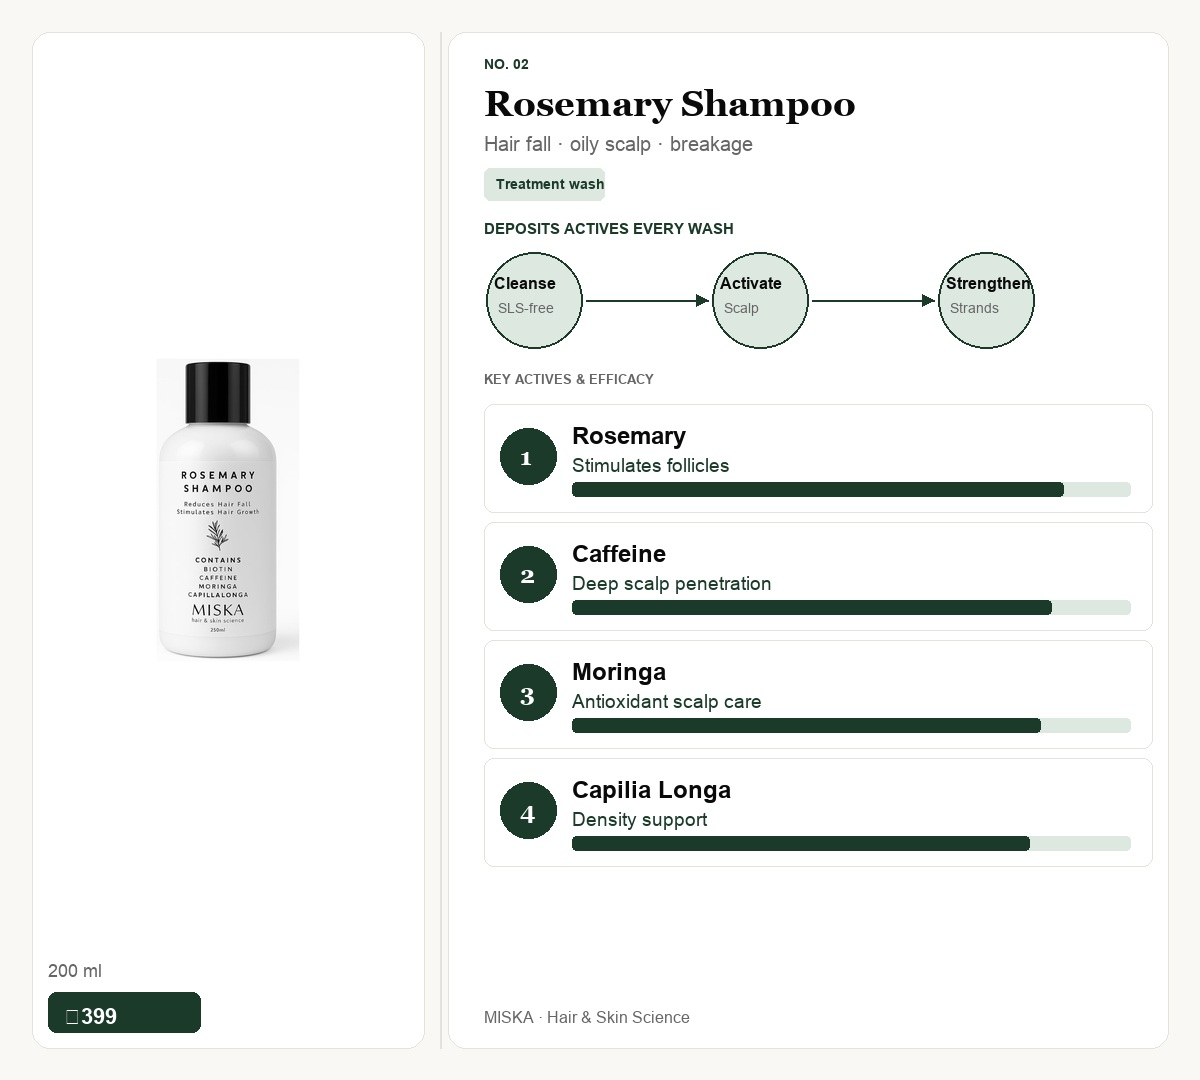
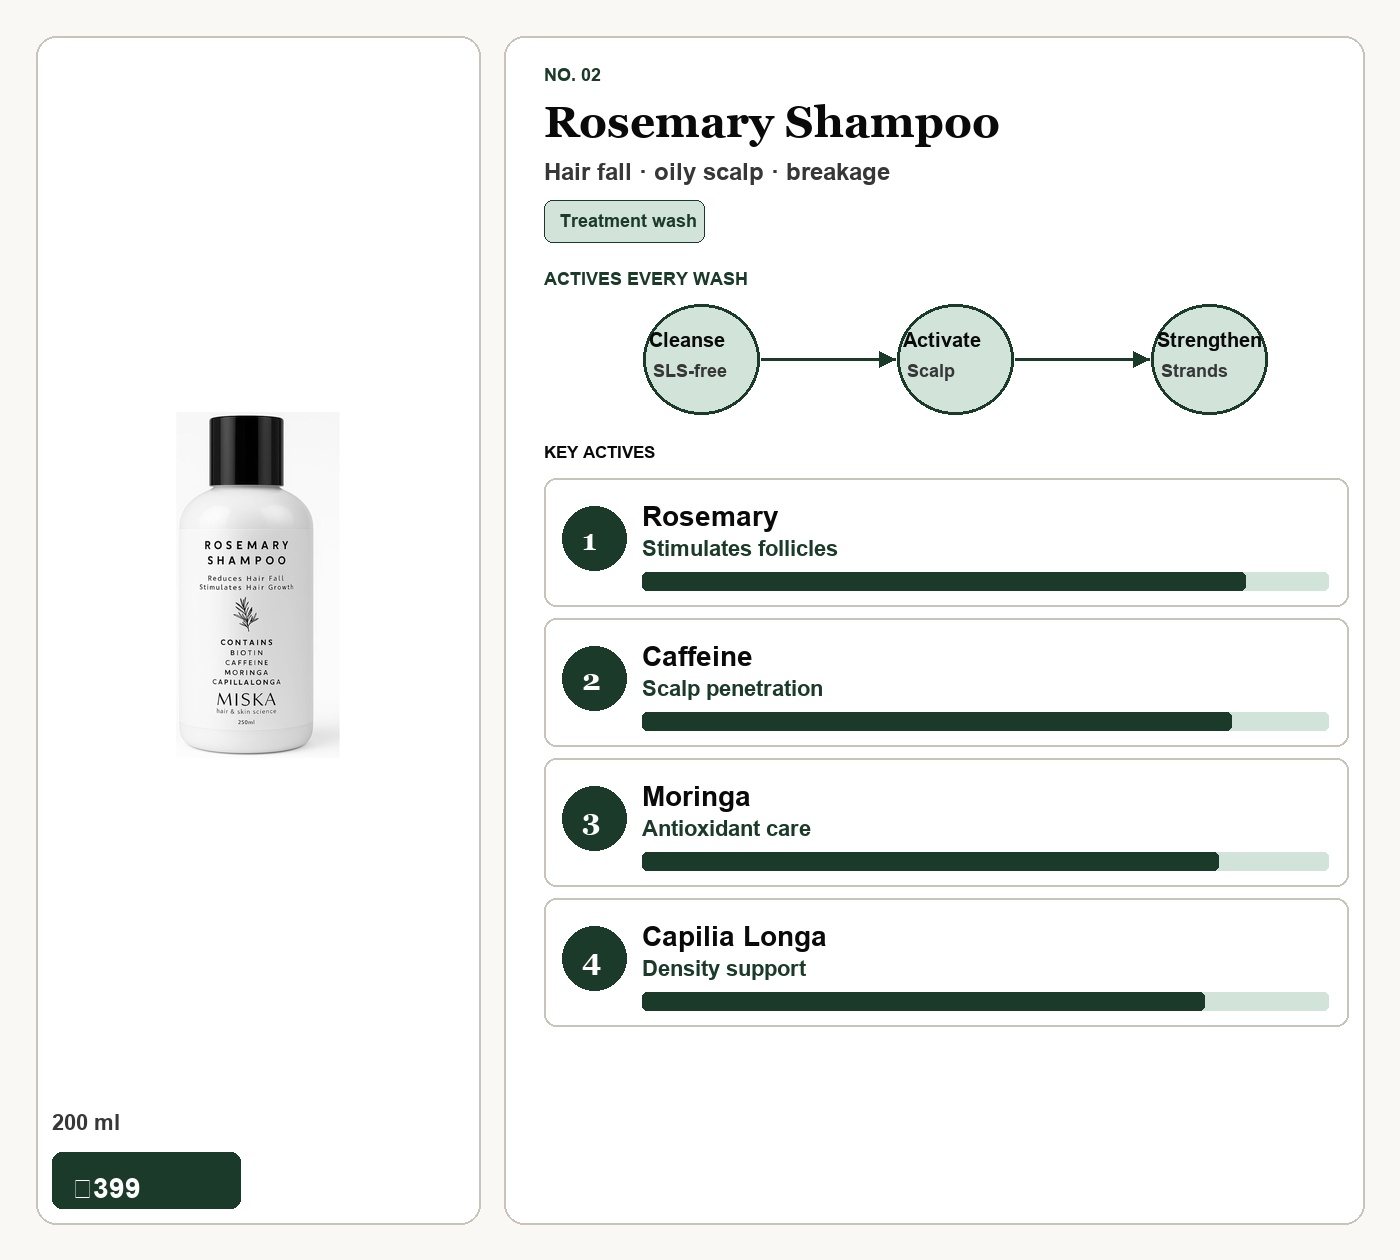
Sharpen hero infographic text and add per-slide Shop now links.
Larger high-contrast slides; each carousel frame links to its product details page.

diff --git a/components/HeroImageRotator.tsx b/components/HeroImageRotator.tsx
@@ -1,15 +1,15 @@
 "use client";
 
 import { useCallback, useEffect, useState } from "react";
+import Link from "next/link";
 import ProductImage from "@/components/ProductImage";
 import { imageUrl } from "@/lib/images";
+import type { HeroSlide } from "@/data/hero-images";
 
 const INTERVAL_MS = 4500;
 
-type Slide = { src: string; alt: string };
-
 type Props = {
-  images: readonly Slide[];
+  images: HeroSlide[];
 };
 
 export default function HeroImageRotator({ images }: Props) {
@@ -29,20 +29,22 @@ export default function HeroImageRotator({ images }: Props) {
 
   if (!images.length) return null;
 
+  const current = images[index];
+
   return (
     <div
       className="w-full min-w-0"
       onMouseEnter={() => setPaused(true)}
       onMouseLeave={() => setPaused(false)}
       aria-roledescription="carousel"
-      aria-label="Hair science infographics"
+      aria-label="Product infographics"
     >
       <div className="relative w-full aspect-[10/9] min-h-[min(88vw,520px)] sm:min-h-[440px] lg:min-h-[min(50vw,560px)] overflow-hidden rounded-sm border border-[#E5E2DB] bg-[#F9F8F5] shadow-sm">
         {images.map((img, i) => (
           <div
             key={imageUrl(img.src)}
             className={`absolute inset-0 transition-opacity duration-500 ease-in-out ${
-              i === index ? "opacity-100 z-10" : "opacity-0 z-0"
+              i === index ? "opacity-100 z-10" : "opacity-0 z-0 pointer-events-none"
             }`}
             aria-hidden={i !== index}
           >
@@ -55,17 +57,24 @@ export default function HeroImageRotator({ images }: Props) {
             />
           </div>
         ))}
+
+        <Link
+          href={`/products/${current.slug}`}
+          className="absolute z-20 bottom-4 left-4 right-4 sm:left-auto sm:right-5 sm:bottom-5 sm:min-w-[200px] inline-flex items-center justify-center bg-[#1C3A2A] text-white px-6 py-3.5 text-[11px] tracking-[0.14em] uppercase font-semibold hover:bg-[#152d20] shadow-md transition-colors"
+        >
+          Shop now — {current.productName}
+        </Link>
       </div>
 
       {images.length > 1 && (
-        <div className="flex justify-center gap-2 mt-4" role="tablist" aria-label="Infographic slides">
+        <div className="flex justify-center gap-2 mt-4" role="tablist" aria-label="Product slides">
           {images.map((img, i) => (
             <button
               key={img.src}
               type="button"
               role="tab"
               aria-selected={i === index}
-              aria-label={img.alt}
+              aria-label={img.productName}
               onClick={() => setIndex(i)}
               className={`h-1.5 rounded-full transition-all ${
                 i === index ? "w-7 bg-[#1C3A2A]" : "w-1.5 bg-[#D4D0C8] hover:bg-[#B8B4AC]"

diff --git a/data/hero-images.ts b/data/hero-images.ts
@@ -1,15 +1,28 @@
 /** One slide per product: bottle + actives infographic */
-export const heroImages = [
+export type HeroSlide = {
+  src: string;
+  alt: string;
+  slug: string;
+  productName: string;
+};
+
+export const heroImages: HeroSlide[] = [
   {
     src: "/marketing/hero/hero-rosemary-hair-oil.jpg",
     alt: "Rosemary Hair Oil with follicle actives infographic",
+    slug: "rosemary-hair-oil",
+    productName: "Rosemary Hair Oil",
   },
   {
     src: "/marketing/hero/hero-rosemary-shampoo.jpg",
     alt: "Rosemary Shampoo with treatment wash actives infographic",
+    slug: "rosemary-shampoo",
+    productName: "Rosemary Shampoo",
   },
   {
     src: "/marketing/hero/hero-hair-scalp-serum.jpg",
     alt: "Hairfall Control Serum with peptide efficacy infographic",
+    slug: "hair-scalp-serum",
+    productName: "Hairfall Control Serum",
   },
-] as const;
+];

diff --git a/lib/images.ts b/lib/images.ts
@@ -1,5 +1,5 @@
 /** Bump when product images are replaced to bust Next.js / browser cache */
-export const IMAGE_VERSION = "20260520d";
+export const IMAGE_VERSION = "20260520e";
 
 export function imageUrl(path: string): string {
   if (!path) return path;

diff --git a/scripts/generate-hero-marketing.py b/scripts/generate-hero-marketing.py
@@ -1,5 +1,5 @@
 #!/usr/bin/env python3
-"""Per-product hero slides: real bottle + actives infographic."""
+"""Per-product hero slides: real bottle + actives infographic (high-contrast text)."""
 
 from __future__ import annotations
 
@@ -9,16 +9,16 @@ from PIL import Image, ImageDraw, ImageFont, ImageOps
 
 ROOT = Path(__file__).resolve().parents[1]
 OUT = ROOT / "public" / "marketing" / "hero"
-W, H = 1200, 1080
-SPLIT = 440
+W, H = 1400, 1260
+SPLIT = 500
 
 BG = (249, 248, 245)
 PANEL = (255, 255, 255)
 GREEN = (28, 58, 42)
-GREEN_LT = (220, 232, 224)
+GREEN_LT = (210, 228, 218)
 DARK = (10, 10, 10)
-MUTED = (102, 102, 102)
-LINE = (229, 226, 219)
+MUTED = (55, 55, 55)
+LINE = (200, 196, 188)
 
 FONT_SERIF_B = "/System/Library/Fonts/Supplemental/Georgia Bold.ttf"
 FONT_SANS = "/Library/Fonts/Arial.ttf"
@@ -48,29 +48,29 @@ def paste_product(base: Image.Image, rel: str, box: tuple[int, int, int, int]):
 
 
 def draw_active_row(draw, x: int, y: int, w: int, index: int, name: str, action: str, bar_pct: int):
-    rounded_rect(draw, (x, y, x + w, y + 108), 10, fill=PANEL, outline=LINE)
-    draw.ellipse((x + 16, y + 24, x + 72, y + 80), fill=GREEN)
-    draw.text((x + 36, y + 38), str(index), fill=(255, 255, 255), font=ft(FONT_SERIF_B, 24))
-    draw.text((x + 88, y + 18), name, fill=DARK, font=ft(FONT_SANS_B, 24))
-    draw.text((x + 88, y + 50), action, fill=GREEN, font=ft(FONT_SANS, 19))
-    bx0, by0 = x + 88, y + 78
-    bar_w = w - 110
-    rounded_rect(draw, (bx0, by0, bx0 + bar_w, by0 + 14), 4, fill=GREEN_LT)
-    rounded_rect(draw, (bx0, by0, bx0 + int(bar_w * bar_pct / 100), by0 + 14), 4, fill=GREEN)
+    h = 128
+    rounded_rect(draw, (x, y, x + w, y + h), 12, fill=PANEL, outline=LINE, width=2)
+    draw.ellipse((x + 18, y + 28, x + 82, y + 92), fill=GREEN)
+    draw.text((x + 38, y + 44), str(index), fill=(255, 255, 255), font=ft(FONT_SERIF_B, 30))
+    draw.text((x + 98, y + 22), name, fill=DARK, font=ft(FONT_SANS_B, 28))
+    draw.text((x + 98, y + 58), action, fill=GREEN, font=ft(FONT_SANS_B, 22))
+    bx0, by0 = x + 98, y + 94
+    bar_w = w - 118
+    rounded_rect(draw, (bx0, by0, bx0 + bar_w, by0 + 18), 5, fill=GREEN_LT)
+    rounded_rect(draw, (bx0, by0, bx0 + int(bar_w * bar_pct / 100), by0 + 18), 5, fill=GREEN)
 
 
-def draw_flow_nodes(draw, x: int, y: int, nodes: list[tuple[str, str]]):
-    """Small scalp → follicle → strand flow."""
-    step = (W - SPLIT - 80) // len(nodes)
+def draw_flow_nodes(draw, x: int, y: int, panel_w: int, nodes: list[tuple[str, str]]):
+    step = (panel_w - 40) // len(nodes)
     for i, (title, sub) in enumerate(nodes):
-        cx = x + 50 + i * step
-        draw.ellipse((cx - 48, y, cx + 48, y + 96), fill=GREEN_LT, outline=GREEN, width=2)
-        draw.text((cx - 40, y + 22), title, fill=DARK, font=ft(FONT_SANS_B, 16))
-        draw.text((cx - 36, y + 48), sub, fill=MUTED, font=ft(FONT_SANS, 14))
+        cx = x + 30 + i * step + step // 2
+        draw.ellipse((cx - 58, y, cx + 58, y + 110), fill=GREEN_LT, outline=GREEN, width=3)
+        draw.text((cx - 52, y + 24), title, fill=DARK, font=ft(FONT_SANS_B, 20))
+        draw.text((cx - 48, y + 56), sub, fill=MUTED, font=ft(FONT_SANS_B, 18))
         if i < len(nodes) - 1:
-            nx = x + 50 + (i + 1) * step
-            draw.line((cx + 52, y + 48, nx - 52, y + 48), fill=GREEN, width=2)
-            draw.polygon([(nx - 52, y + 48), (nx - 64, y + 42), (nx - 64, y + 54)], fill=GREEN)
+            nx = x + 30 + (i + 1) * step + step // 2
+            draw.line((cx + 60, y + 55, nx - 60, y + 55), fill=GREEN, width=3)
+            draw.polygon([(nx - 60, y + 55), (nx - 76, y + 47), (nx - 76, y + 63)], fill=GREEN)
 
 
 def build_slide(
@@ -90,44 +90,39 @@ def build_slide(
     img = Image.new("RGB", (W, H), BG)
     draw = ImageDraw.Draw(img)
 
-    # Left — product
-    rounded_rect(draw, (32, 32, SPLIT - 16, H - 32), 18, fill=PANEL, outline=LINE)
-    paste_product(img, product_rel, (48, 100, SPLIT - 32, H - 160))
-    draw.text((48, H - 120), volume, fill=MUTED, font=ft(FONT_SANS, 18))
-    rounded_rect(draw, (48, H - 88, 200, H - 48), 8, fill=GREEN)
-    draw.text((64, H - 76), price, fill=(255, 255, 255), font=ft(FONT_SANS_B, 22))
+    rounded_rect(draw, (36, 36, SPLIT - 20, H - 36), 20, fill=PANEL, outline=LINE, width=2)
+    paste_product(img, product_rel, (52, 110, SPLIT - 36, H - 200))
+    draw.text((52, H - 150), volume, fill=MUTED, font=ft(FONT_SANS_B, 22))
+    rounded_rect(draw, (52, H - 108, 240, H - 52), 10, fill=GREEN)
+    draw.text((72, H - 88), price, fill=(255, 255, 255), font=ft(FONT_SANS_B, 28))
 
-    # Right — infographic panel
-    rx = SPLIT + 8
-    rounded_rect(draw, (rx, 32, W - 32, H - 32), 18, fill=PANEL, outline=LINE)
-    draw.line((SPLIT, 32, SPLIT, H - 32), fill=LINE, width=2)
+    rx = SPLIT + 4
+    rounded_rect(draw, (rx, 36, W - 36, H - 36), 20, fill=PANEL, outline=LINE, width=2)
 
-    ix = rx + 36
-    iw = W - ix - 48
+    ix = rx + 40
+    iw = W - ix - 52
 
-    draw.text((ix, 56), label.upper(), fill=GREEN, font=ft(FONT_SANS_B, 14))
-    draw.text((ix, 82), name, fill=DARK, font=ft(FONT_SERIF_B, 36))
-    draw.text((ix, 132), concern, fill=MUTED, font=ft(FONT_SANS, 20))
+    draw.text((ix, 64), label.upper(), fill=GREEN, font=ft(FONT_SANS_B, 18))
+    draw.text((ix, 96), name, fill=DARK, font=ft(FONT_SERIF_B, 44))
+    draw.text((ix, 158), concern, fill=MUTED, font=ft(FONT_SANS_B, 24))
 
-    rounded_rect(draw, (ix, 168, ix + 120, 200), 6, fill=GREEN_LT)
-    draw.text((ix + 12, 176), tag, fill=GREEN, font=ft(FONT_SANS_B, 14))
+    rounded_rect(draw, (ix, 200, ix + 160, 242), 8, fill=GREEN_LT, outline=GREEN, width=1)
+    draw.text((ix + 16, 210), tag, fill=GREEN, font=ft(FONT_SANS_B, 18))
 
-    draw.text((ix, 220), efficacy_title.upper(), fill=GREEN, font=ft(FONT_SANS_B, 15))
-    y = 252
+    draw.text((ix, 268), efficacy_title.upper(), fill=GREEN, font=ft(FONT_SANS_B, 18))
+    y = 304
     if flow_nodes:
-        draw_flow_nodes(draw, ix, y, flow_nodes)
-        y += 120
+        draw_flow_nodes(draw, ix, y, iw, flow_nodes)
+        y += 138
 
-    draw.text((ix, y), "KEY ACTIVES & EFFICACY", fill=MUTED, font=ft(FONT_SANS_B, 13))
-    y += 32
+    draw.text((ix, y), "KEY ACTIVES", fill=DARK, font=ft(FONT_SANS_B, 17))
+    y += 36
     for i, (active, action, pct) in enumerate(formula, 1):
         draw_active_row(draw, ix, y, iw, i, active, action, pct)
-        y += 118
-
-    draw.text((ix, H - 72), "MISKA · Hair & Skin Science", fill=MUTED, font=ft(FONT_SANS, 16))
+        y += 140
 
     path = OUT / filename
-    img.save(path, "JPEG", quality=94, optimize=True)
+    img.save(path, "JPEG", quality=95, optimize=True)
     print(f"Wrote {path}")
 
 
@@ -148,7 +143,7 @@ def main():
         formula=[
             ("Rosemary", "Boosts scalp circulation", 90),
             ("Caffeine", "Helps block DHT", 88),
-            ("Biotin", "Strengthens hair shaft", 86),
+            ("Biotin", "Stronger hair shaft", 86),
             ("Castor Oil", "Seals moisture", 82),
         ],
     )
@@ -162,12 +157,12 @@ def main():
         concern="Hair fall · oily scalp · breakage",
         volume="200 ml",
         price="₹399",
-        efficacy_title="Deposits actives every wash",
+        efficacy_title="Actives every wash",
         flow_nodes=[("Cleanse", "SLS-free"), ("Activate", "Scalp"), ("Strengthen", "Strands")],
         formula=[
             ("Rosemary", "Stimulates follicles", 88),
-            ("Caffeine", "Deep scalp penetration", 86),
-            ("Moringa", "Antioxidant scalp care", 84),
+            ("Caffeine", "Scalp penetration", 86),
+            ("Moringa", "Antioxidant care", 84),
             ("Capilia Longa", "Density support", 82),
         ],
     )
@@ -185,7 +180,7 @@ def main():
         flow_nodes=[("Anagen", "Extend"), ("Anchor", "Root"), ("Density", "Thicker")],
         formula=[
             ("Redensyl", "Reactivates stem cells", 92),
-            ("Procapil", "Strengthens follicle anchor", 90),
+            ("Procapil", "Stronger root anchor", 90),
             ("Anagain", "Extends growth phase", 87),
             ("Capilia Longa", "Density & thickness", 85),
         ],